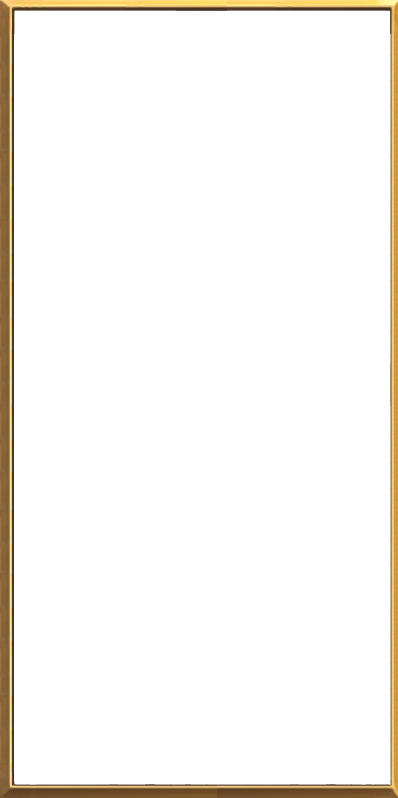
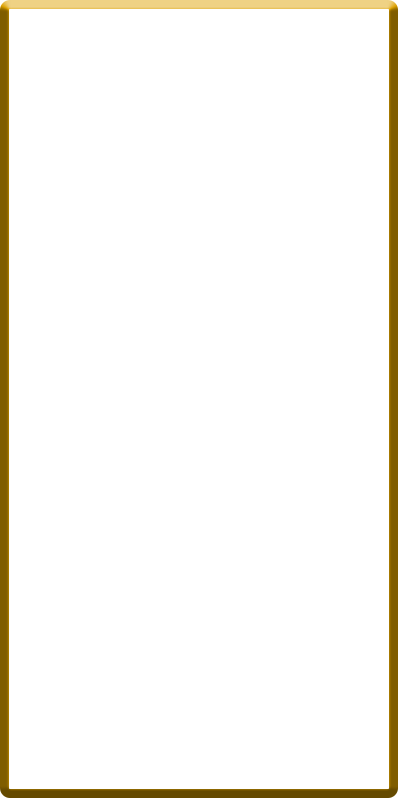
ugh

Changed region(s): [[0.0, 0.0, 1.0, 1.0]]

diff --git a/public/css/deckBuilder.css b/public/css/deckBuilder.css
@@ -125,7 +125,7 @@ body {
     left: -20px;
     width: 120%;
     height: 100%;
-    background-image: url("./../../images/backGlight.png");
+    background-image: url("./../../images/backGlightV2.png");
     background-color: transparent;
     background-size: contain;
     filter: drop-shadow(0px 0px 5px #262626); }
@@ -252,17 +252,18 @@ body {
   .deck-tray .dndDragover {
     background: #363636 !important; }
   .deck-tray .drag-box {
-    box-shadow: 0 0 15px #262626;
+    box-shadow: -1px 0 15px rgba(38, 38, 38, 0.5);
     background-color: #262626;
     position: absolute;
     top: 0;
     height: 850px;
     width: 100%;
-    transition: background 1s; }
-    .deck-tray .drag-box::after {
+    transition: background 1s;
+    border-radius: 10px; }
+    .deck-tray .drag-box::before {
       content: "";
       pointer-events: none;
-      background-image: url("./../../images/trayBorder.png");
+      background-image: url("./../../images/trayBorderTest4.png");
       background-size: 100% 100%;
       background-repeat: no-repeat;
       position: absolute;
@@ -279,7 +280,7 @@ body {
     height: 850px;
     width: 100%;
     transition: background .2s; }
-    .deck-tray .drag-box-ondrag::after {
+    .deck-tray .drag-box-ondrag::before {
       content: "";
       pointer-events: none;
       background-image: url("./../../images/trayBorderOndrag.png");

diff --git a/public/sass/css/deckBuilder.scss b/public/sass/css/deckBuilder.scss
@@ -179,7 +179,7 @@ body {
       left: -20px;
       width: 120%;
       height: 100%;
-      background-image: url("./../../images/backGlight.png");
+      background-image: url("./../../images/backGlightV2.png");
       background-color: transparent;
       background-size: contain;
       filter: drop-shadow(0px 0px 5px #262626);
@@ -361,14 +361,15 @@ body {
   }
 
   .drag-box {
-    box-shadow: 0 0 15px #262626;
+    box-shadow: -1px 0 15px rgba(38, 38, 38, 0.5);
     background-color: #262626;
     position: absolute;
     top: 0;
     height: 850px;
     width: 100%;
     transition: background 1s;
-    &::after {
+    border-radius: 10px;
+    &::before {
       content: "";
       pointer-events: none;
       background-image: url("./../../images/trayBorder.png");
@@ -391,7 +392,7 @@ body {
     height: 850px;
     width: 100%;
     transition: background .2s;
-    &::after {
+    &::before {
       content: "";
       pointer-events: none;
       background-image: url("./../../images/trayBorderOndrag.png");
